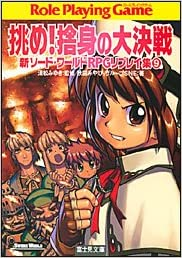
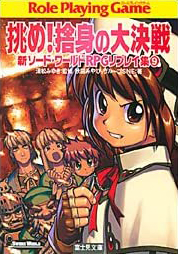
sword-world

diff --git a/sword-world/gallery.md b/sword-world/gallery.md
@@ -55,7 +55,7 @@
 <td valign="top" width="25%"><img src="https://raw.githubusercontent.com/weatherspud/japanese-collectors-list/master/sword-world/run_mysterious_new_world.jpg" height="240"><br/><b>走れ!神秘の大森林―新ソード・ワールドRPGリプレイ集〈7〉</b><br/>Run! Mysterious New World: New Sword World RPG Replay Collection 7<br/>2003</td>
 </tr><tr>
 <td valign="top" width="25%"><img src="https://raw.githubusercontent.com/weatherspud/japanese-collectors-list/master/sword-world/save_former_great_friend.jpg" height="240"><br/><b>救え!かつての大親友―新ソード・ワールドRPGリプレイ集〈8〉</b><br/>Save! Former Great Friend: New Sword World RPG Replay Collection 8<br/>2004</td>
-<td valign="top" width="25%"><img src="https://raw.githubusercontent.com/weatherspud/japanese-collectors-list/master/sword-world/challenge_the_great_decisive_battle.jpg" height="240"><br/><b>挑め!捨身の大決戦―新ソード・ワールドRPGリプレイ集〈9〉</b><br/>Challenge! The Great Decisive Batlte: New Sword World RPG Replay Collection 9<br/>2005</td>
+<td valign="top" width="25%"><img src="https://raw.githubusercontent.com/weatherspud/japanese-collectors-list/master/sword-world/challenge_the_great_decisive_battle.jpg" height="240"><br/><b>挑め!捨身の大決戦―新ソード・ワールドRPGリプレイ集〈9〉</b><br/>Challenge! The Great Decisive Battle: New Sword World RPG Replay Collection 9<br/>2005</td>
 <td valign="top" width="25%"><img src="https://raw.githubusercontent.com/weatherspud/japanese-collectors-list/master/sword-world/name_yourself_the_great_hero.jpg" height="240"><br/><b>名乗れ!今こそ大英雄―新ソード・ワールドRPGリプレイ集〈10〉</b><br/>Name Yourself! The Great Hero: New Sword World RPG Replay Collection 10<br/>2005</td>
 <td valign="top" width="25%"><img src="https://raw.githubusercontent.com/weatherspud/japanese-collectors-list/master/sword-world/heppoko_great_adventure.jpg" height="240"><br/><b>明かせ!へっぽこ大冒険―新ソード・ワールドRPGリプレイ集ガイドブック</b><br/>Let's Reveal! Heppoko's Great Adventure: New Sword World RPG Replay Collection Guide Book<br/>2006</td>
 </tr><tr>
